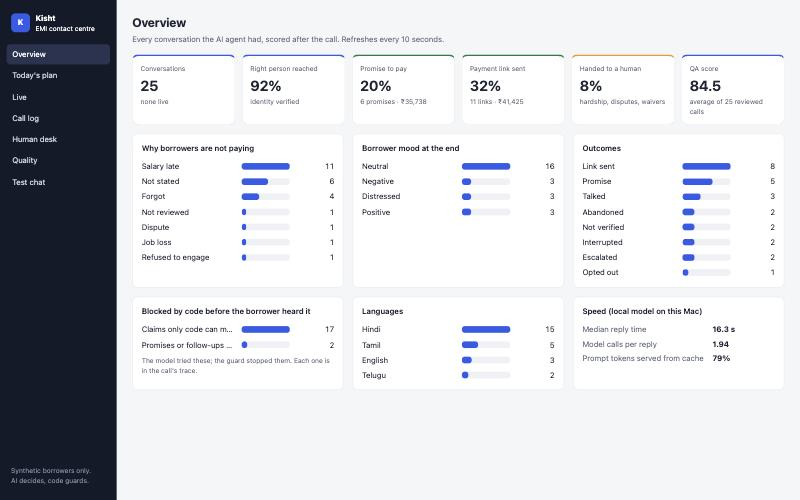
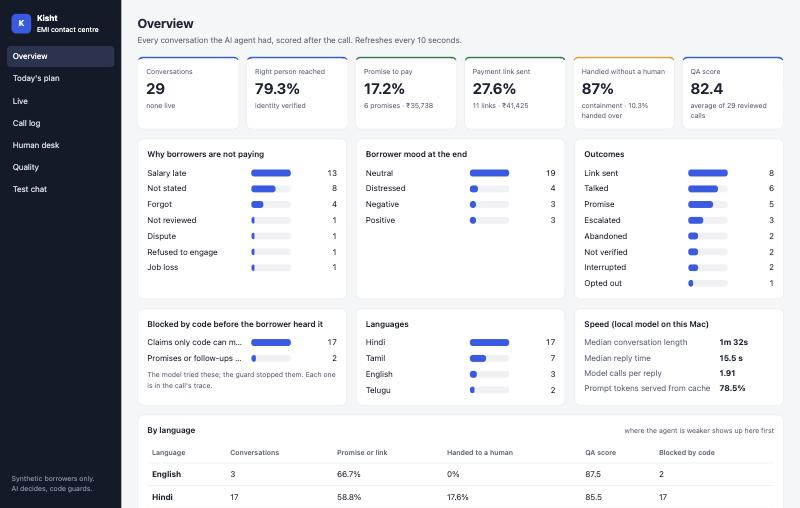
README: screenshots of the live view, desk deadlines and human QA check

diff --git a/README.md b/README.md
@@ -142,7 +142,7 @@ React + TypeScript dashboard (`dashboard/`) served by `kisht serve`:
 | Agent assist | For a human picking up a case: an AI brief, next best action, suggested replies in the borrower's language, and answers from the loan agreement with section numbers. |
 | Test chat | A phone-style chat window to be the borrower against the real agent. |
 
-![Overview: 25 simulated conversations in Hindi, Tamil, English and Telugu](docs/img/overview.jpg)
+![Overview: simulated and test conversations in Hindi, Tamil, English and Telugu](docs/img/overview.jpg)
 
 A call with its post-call QA review, and its trace. The red "Reply check" is where the model
 claimed the promise was saved before the borrower agreed; code replaced it with the read-back.
@@ -154,6 +154,22 @@ The same agent in Tamil, and the human desk with agent assist on a hardship hand
 
 ![Tamil conversation](docs/img/call-tamil.jpg)
 ![Human desk with agent assist](docs/img/desk.jpg)
+
+The supervisor's live view. The supervisor's private note is shown above the reply it shaped;
+the borrower's date of birth is already masked. "Take over" stops the AI and puts the case on
+the human desk:
+
+![Live view with coach and take over](docs/img/live.jpg)
+
+The desk queue with deadlines, most urgent first; here the taken-over case is past its
+one-hour deadline:
+
+![Human desk queue with deadlines](docs/img/desk-queue.jpg)
+
+A human checking the AI reviewer's marks on one call. Their marks start from the AI's and are
+saved beside them, so agreement can be measured:
+
+![Human QA check](docs/img/qa-check.jpg)
 
 The planner's queue for the day, with its reasons and what each contact led to:
 
